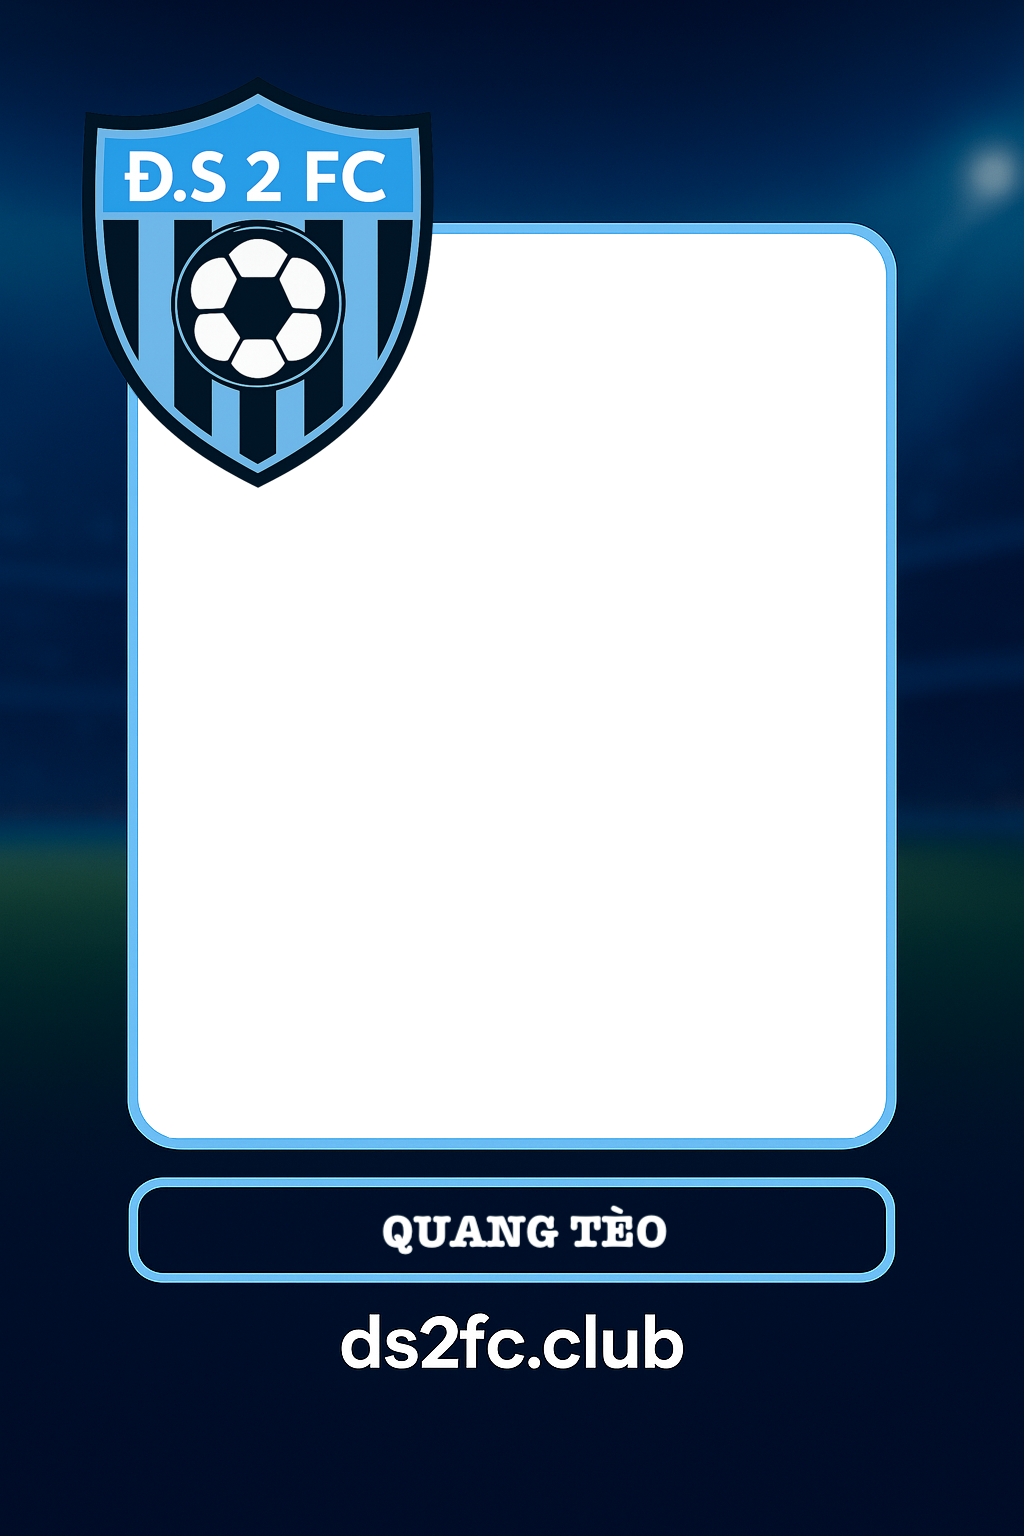
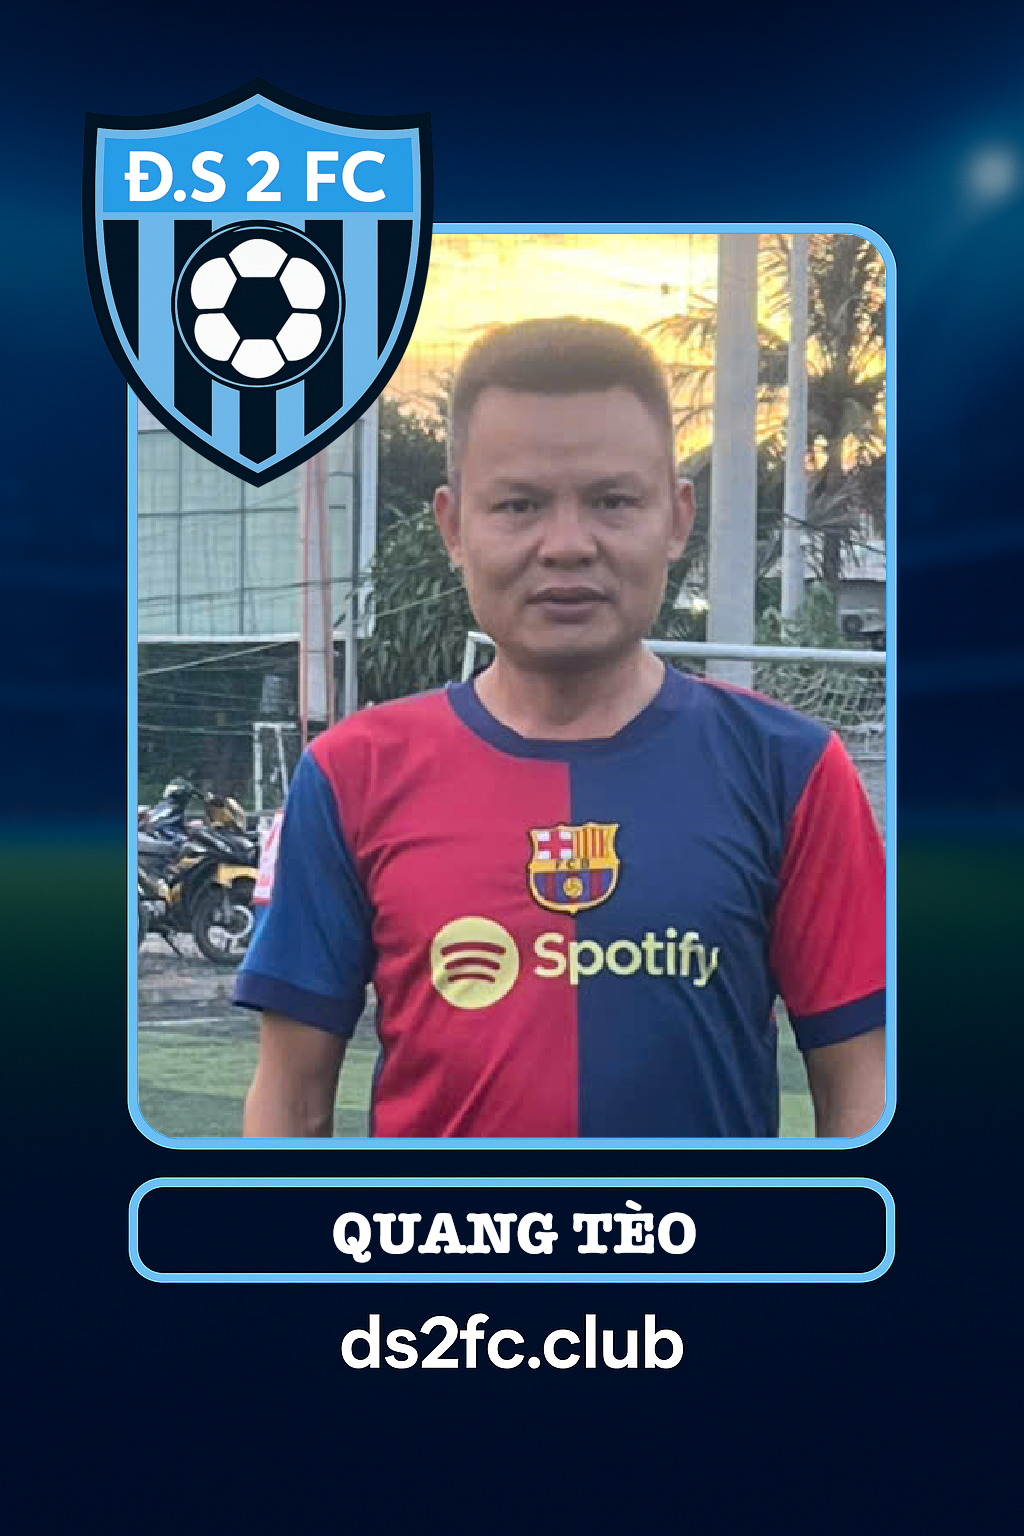
Deploy aefc on Thu Jul 24 12:33:47 SEAST 2025

diff --git a/flutter_service_worker.js b/flutter_service_worker.js
@@ -52,12 +52,12 @@ const RESOURCES = {"assets/AssetManifest.bin": "ec9d71df0f550d30891159817688bbe6
 "assets/assets/images/players/nguyenthanhtam.png": "332c8e6b47972f8a6c28a2a6ed286d75",
 "assets/assets/images/players/nguyenthuy.png": "a561e06332fc48ee9c950f27323e66f7",
 "assets/assets/images/players/quanglam.png": "b45af4a2a5358509b4fd854030835aa5",
-"assets/assets/images/players/quangteo.png": "32f03e501999d3421c694dd0d69fd8ee",
+"assets/assets/images/players/quangteo.png": "7da9ea2c2590e8caaa8c942d2022ad94",
 "assets/assets/images/players/sinhgia2020.jpg": "30a8c77b6bff3e7c8bff0eaf124739fa",
 "assets/assets/images/players/thanhtra.jpg": "b94c534d540a86c28a12e825d6085d43",
 "assets/assets/images/players/thanhtra.png": "9aa635aadc7f44edf57631e36842fd06",
 "assets/assets/images/players/thoale.jpg": "10b92daf6ffb7ffeeab7f54965e84c5e",
-"assets/assets/images/players/tiennguyen.png": "deecf50f74669dccabca15b25caed714",
+"assets/assets/images/players/tiennguyen.png": "5ab162b5eeb5d3ec1e1e7141c9d17d5e",
 "assets/assets/images/players/tranhung.png": "eeeeb1c5a34ddb437d2d72eaddfd72fd",
 "assets/assets/images/players/trannguyenthailand.jpg": "0f8c315ed498a6a203b6692bd03e3459",
 "assets/assets/images/players/trungle.jpg": "c494794fb4fbb98a75fbfcbdc68e7117",
@@ -90,7 +90,7 @@ const RESOURCES = {"assets/AssetManifest.bin": "ec9d71df0f550d30891159817688bbe6
 "canvaskit/skwasm.wasm": "39dd80367a4e71582d234948adc521c0",
 "favicon.png": "4e1c00567e5fd8927d26abb9fc4010e8",
 "flutter.js": "83d881c1dbb6d6bcd6b42e274605b69c",
-"flutter_bootstrap.js": "b4e7b548eed4bfd6a646a1689139a879",
+"flutter_bootstrap.js": "004ec84861dbeed0a6a510c998717c18",
 "icons/Icon-192.png": "b858eec0d5dfa6aa3181e070f0afdded",
 "icons/Icon-512.png": "90395b7ead299b7700b1ed3760e1d29e",
 "icons/Icon-maskable-192.png": "b858eec0d5dfa6aa3181e070f0afdded",

diff --git a/flutter_bootstrap.js b/flutter_bootstrap.js
@@ -39,6 +39,6 @@ _flutter.buildConfig = {"engineRevision":"8cd19e509d6bece8ccd74aef027c4ca9473630
 
 _flutter.loader.load({
   serviceWorkerSettings: {
-    serviceWorkerVersion: "689815707"
+    serviceWorkerVersion: "3698897006"
   }
 });
